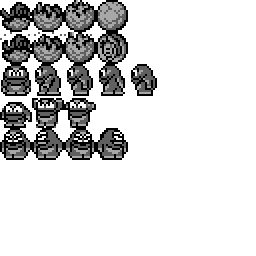
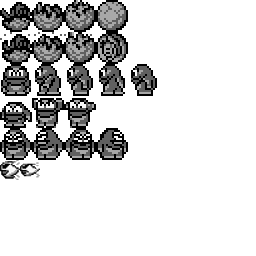
Cambio de la logica de proyectil

Changed region(s): [[0.0, 0.625, 0.1562, 0.7188]]

diff --git a/cGame.cpp b/cGame.cpp
@@ -149,9 +149,9 @@ bool cGame::Process()
 
 	//COLLISIONS
 
+	//Player 
 	if(!Player.isDead()) { 
 		cRect rec;
-		
 		//this checks wether you exit a collision with a snowball if you were standing on top of it
 		if(Player.GetSnowballOnTopOf() != -1) {
 		enemies[Player.GetSnowballOnTopOf()].GetArea(&rec);
@@ -185,11 +185,24 @@ bool cGame::Process()
 					if(l == 0) GameOver();
 				}
 			}
+			//Player projectiles to  Enemy
 			vector<cProjectile> p = Player.GetProjectiles();
 			for(int j=0; j<int(p.size());++j) {
 				if(p[j].Collides(&rec)){
 					enemies[i].Hit();
 					Player.EraseProjectile(j);
+				}
+			}
+			//Enemy projectiles to Player
+			if (!Player.isInvincible())
+			{
+				Player.GetArea(&rec);
+				p = enemies[i].GetProjectiles();
+				for(int j=0; j<int(p.size());++j) {
+					if(p[j].Collides(&rec)){
+						Player.Die();
+						enemies[i].EraseProjectile(j);
+					}
 				}
 			}
 		}
@@ -206,12 +219,18 @@ void cGame::Render()
 
 	Scene.Draw(Data.GetID(IMG_BLOCKS), Data.GetID(IMG_BACKGROUND));
 	
-	
-	for(int i=0;i<int(enemies.size());++i) 
+	vector<cProjectile> proj;
+	//DRAWENEMYS
+	for(int i=0;i<int(enemies.size());++i) {
 		enemies[i].Draw(IMG_ENEMY);
+		proj = enemies[i].GetProjectiles();
+		for (int i = 0; i < int(proj.size()); ++i) 
+			proj[i].Draw(Data.GetID(IMG_PLAYER));
+	}
 
+	//DRAWPLAYER1
 	Player.Draw(Data.GetID(IMG_PLAYER));
-	vector<cProjectile> proj = Player.GetProjectiles();
+	proj = Player.GetProjectiles();
 	for (int i = 0; i < int(proj.size()); ++i) 
 		proj[i].Draw(Data.GetID(IMG_PLAYER));
 

diff --git a/EnemyOne.cpp b/EnemyOne.cpp
@@ -5,6 +5,7 @@ EnemyOne::EnemyOne(void)
 {
 	movsps = 0;
 	rnd = rand()%100;
+	timeThrowing = 0;
 }
 
 void EnemyOne::Draw(int tex_id) { 
@@ -16,7 +17,32 @@ EnemyOne::~EnemyOne(void)
 {
 }
 
+void EnemyOne::Logic(int* map) 
+{
+		//PROJECTILES
+	if (throwing)  {
+		++timeThrowing;
+		if (timeThrowing > TIME_THROWING) {
+			timeThrowing = 0;
+			throwing = false;
+		}
+		else if (timeThrowing == THROW_LOAD) {
+			int aux = (state == STATE_THROWLEFT) ? 0 : 1;
+			cProjectile p(x,y,w,h,aux,TYPE_2);
+			projectiles.push_back(p);
+		}
+	}
 
+	for (int i = 0; i < int(projectiles.size()); ++i) 
+	{
+		projectiles[i].Logic(map);
+		if (projectiles[i].CollidesMapFloor(map) ||
+			projectiles[i].CollidesMapWall(map, false) ||
+			projectiles[i].CollidesMapWall(map, true)) 
+		projectiles.erase(projectiles.begin() + i);
+	}
+	Enemy::Logic(map);
+}
 void EnemyOne::AI(int *map)
 {	
 	++movsps;

diff --git a/cBicho.cpp b/cBicho.cpp
@@ -9,7 +9,6 @@ cBicho::cBicho(void)
 	projectiles = vector<cProjectile>();
 	jump_alfa = 0;
 	jump_y = y;
-	timeThrow = 0;
 }
 cBicho::~cBicho(void){}
 
@@ -266,26 +265,5 @@ void cBicho::Logic(int *map)
 			y -= (2*STEP_LENGTH);
 	}
 
-	//PROJECTILES
-	if (throwing)  {
-		++timeThrow;
-		if (timeThrow > TIME_THROWING) {
-			timeThrow = 0;
-			throwing = false;
-		}
-		else if (timeThrow == THROW_LOAD) {
-			int aux = (state == STATE_THROWLEFT) ? 0 : 1;
-			cProjectile p(x,y,w,h,aux);
-			projectiles.push_back(p);
-		}
-	}
 
-	for (int i = 0; i < int(projectiles.size()); ++i) 
-	{
-		projectiles[i].Logic(map);
-		if (projectiles[i].CollidesMapFloor(map) ||
-			projectiles[i].CollidesMapWall(map, false) ||
-			projectiles[i].CollidesMapWall(map, true)) 
-		projectiles.erase(projectiles.begin() + i);
-	}
 }

diff --git a/cPlayer.cpp b/cPlayer.cpp
@@ -133,7 +133,28 @@ void cPlayer::Logic(int *map) {
 			invincible = false;
 		}
 	}
+		//PROJECTILES
+	if (throwing)  {
+		++timeThrowing;
+		if (timeThrowing > TIME_THROWING) {
+			timeThrowing = 0;
+			throwing = false;
+		}
+		else if (timeThrowing == THROW_LOAD) {
+			int aux = (state == STATE_THROWLEFT) ? 0 : 1;
+			cProjectile p(x,y,w,h,aux,TYPE_1);
+			projectiles.push_back(p);
+		}
+	}
 
+	for (int i = 0; i < int(projectiles.size()); ++i) 
+	{
+		projectiles[i].Logic(map);
+		if (projectiles[i].CollidesMapFloor(map) ||
+			projectiles[i].CollidesMapWall(map, false) ||
+			projectiles[i].CollidesMapWall(map, true)) 
+		projectiles.erase(projectiles.begin() + i);
+	}
 	cBicho::Logic(map);
 }
 

diff --git a/cProjectile.h b/cProjectile.h
@@ -5,12 +5,13 @@
 #define HIGHT_STEP		4
 #define STATE_GO_RIGHT	0
 #define STATE_GO_LEFT	1
-
+#define TYPE_1			0
+#define TYPE_2			1
 class cProjectile :	public cObject
 {
 
 public:
-	cProjectile(int x, int y, int w, int h, int state);
+	cProjectile(int x, int y, int w, int h, int state,int type);
 	~cProjectile(void);
 
 	void Draw(int tex_id);
@@ -19,5 +20,6 @@ public:
 private:
 	int falling_alfa;
 	int falling_y;
+	int type;
 };
 

diff --git a/cProjectile.cpp b/cProjectile.cpp
@@ -2,7 +2,7 @@
 
 
 
-cProjectile::cProjectile(int xx, int yy, int ww, int hh, int dir)
+cProjectile::cProjectile(int xx, int yy, int ww, int hh, int dir,int typee)
 {
 		if (dir == 1) {
 			x = xx + ww - 5;
@@ -13,7 +13,7 @@ cProjectile::cProjectile(int xx, int yy, int ww, int hh, int dir)
 			state = STATE_GO_LEFT;
 		}
 		y = yy + hh/2 - 5;
-
+		type = typee;
 		w = 20;
 		h = 20;
 		falling_y = yy + hh/2 -5;

diff --git a/EnemyOne.h b/EnemyOne.h
@@ -10,9 +10,11 @@ public:
 	~EnemyOne(void);
 	virtual void AI(int *map);
 	virtual void Draw(int tex_id);
+	virtual void Logic(int *map);
 
 private:
 	int movsps;
 	int rnd;
+	int timeThrowing;
 };
 

diff --git a/cPlayer.h b/cPlayer.h
@@ -42,4 +42,6 @@ private:
 	int lives;
 	int snowballPushing;
 	int snowballOnTopOf;
+
+	int timeThrowing;
 };

diff --git a/cBicho.h b/cBicho.h
@@ -50,5 +50,4 @@ protected:
 private:
 	int jump_alfa;
 	int jump_y;
-	int timeThrow;
 };
